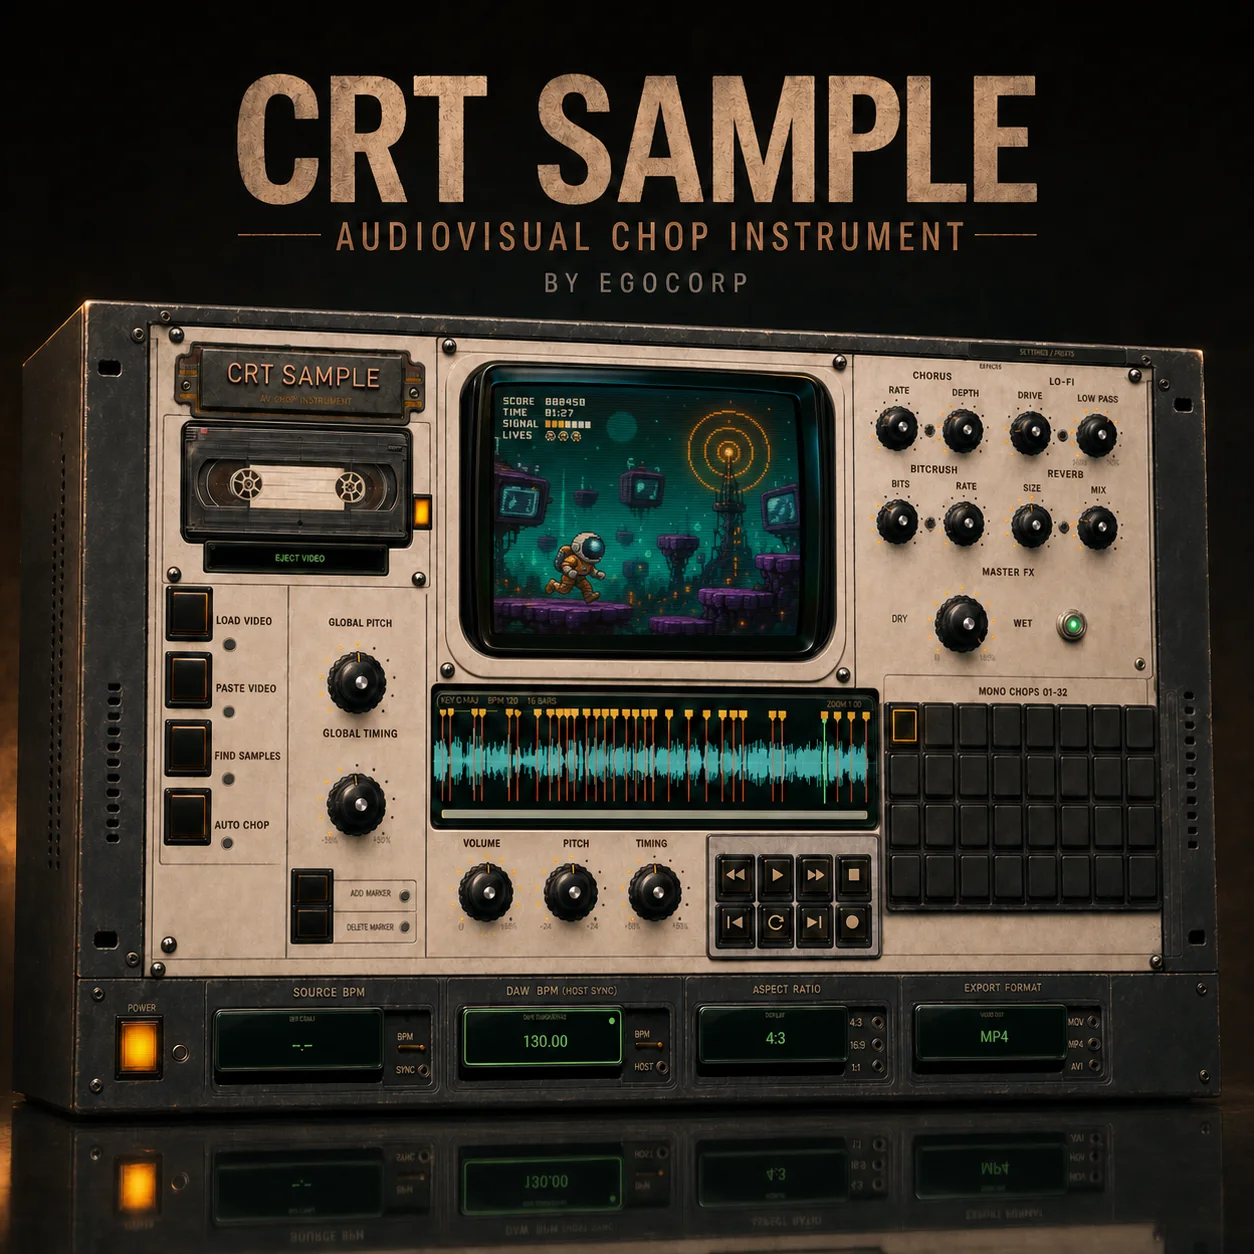
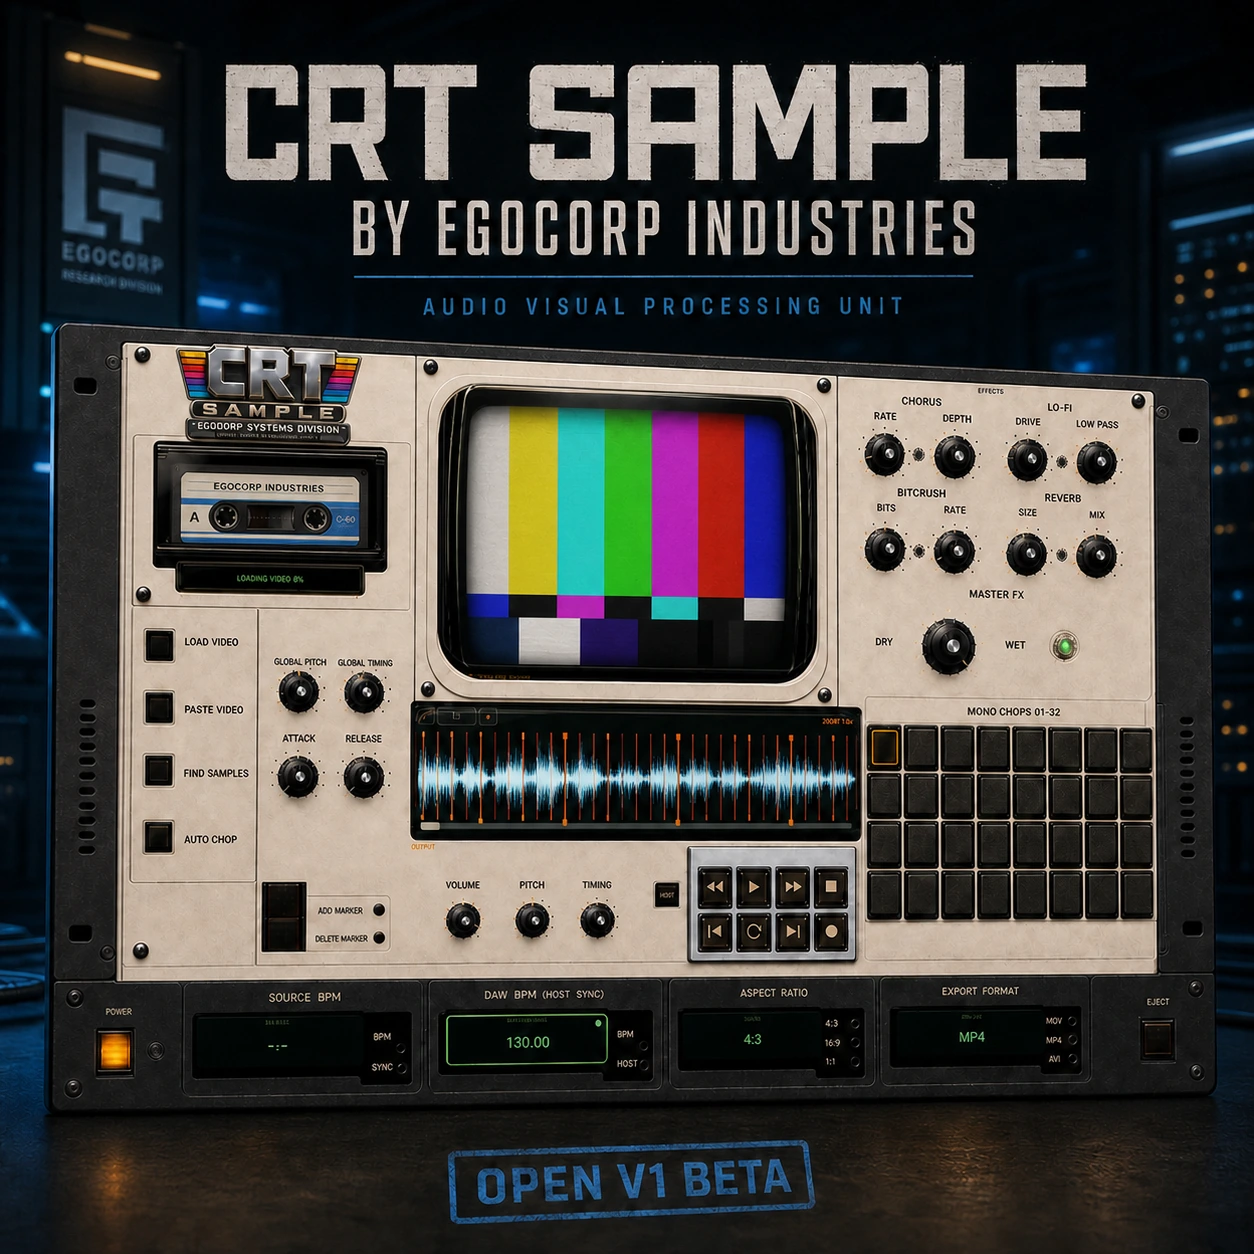
Set official CRT Sample artwork

diff --git a/index.html b/index.html
@@ -4,6 +4,16 @@
   <meta charset="utf-8" />
   <meta name="viewport" content="width=device-width, initial-scale=1" />
   <title>EGOCORP™ | Media & Social Architecture</title>
+  <meta name="description" content="CRT Sample by Egocorp Industries — an audiovisual chop instrument for Windows VST3." />
+  <meta property="og:title" content="CRT Sample by Egocorp Industries" />
+  <meta property="og:description" content="Turn video into a playable, tempo-locked audiovisual instrument." />
+  <meta property="og:image" content="https://egocorp.io/assets/crt-sample-official.png" />
+  <meta property="og:image:width" content="1254" />
+  <meta property="og:image:height" content="1254" />
+  <meta property="og:type" content="website" />
+  <meta property="og:url" content="https://egocorp.io/#crt-sample" />
+  <meta name="twitter:card" content="summary_large_image" />
+  <meta name="twitter:image" content="https://egocorp.io/assets/crt-sample-official.png" />
 
   <style>
     :root{
@@ -495,7 +505,15 @@
 
         <div class="productCard">
           <div class="productArt">
-            <img src="./assets/crt-sample-cover.webp" alt="CRT Sample audiovisual sampler product cover">
+            <picture>
+              <source srcset="./assets/crt-sample-cover.webp" type="image/webp">
+              <img src="./assets/crt-sample-official.png"
+                   width="1254"
+                   height="1254"
+                   loading="lazy"
+                   decoding="async"
+                   alt="Official CRT Sample by Egocorp Industries Open V1 Beta artwork">
+            </picture>
           </div>
 
           <div class="productCopy">
@@ -511,7 +529,7 @@
               <li>32 monophonic chops</li>
               <li>Waveform zoom + marker editing</li>
               <li>Chorus, lo-fi, bitcrush + reverb</li>
-              <li>VST3 + standalone</li>
+              <li>Windows VST3 plugin</li>
             </ul>
             <div class="releaseStatus">V1.1.0 customer trial // Windows 10/11</div>
             <div class="productActions">
@@ -528,7 +546,7 @@
                 Support via Cash App
               </a>
             </div>
-            <div class="supportNote">Windows x64 // VST3 + standalone // $egocorp optional support</div>
+            <div class="supportNote">Windows x64 // VST3 // $egocorp optional support</div>
           </div>
         </div>
       </div>
